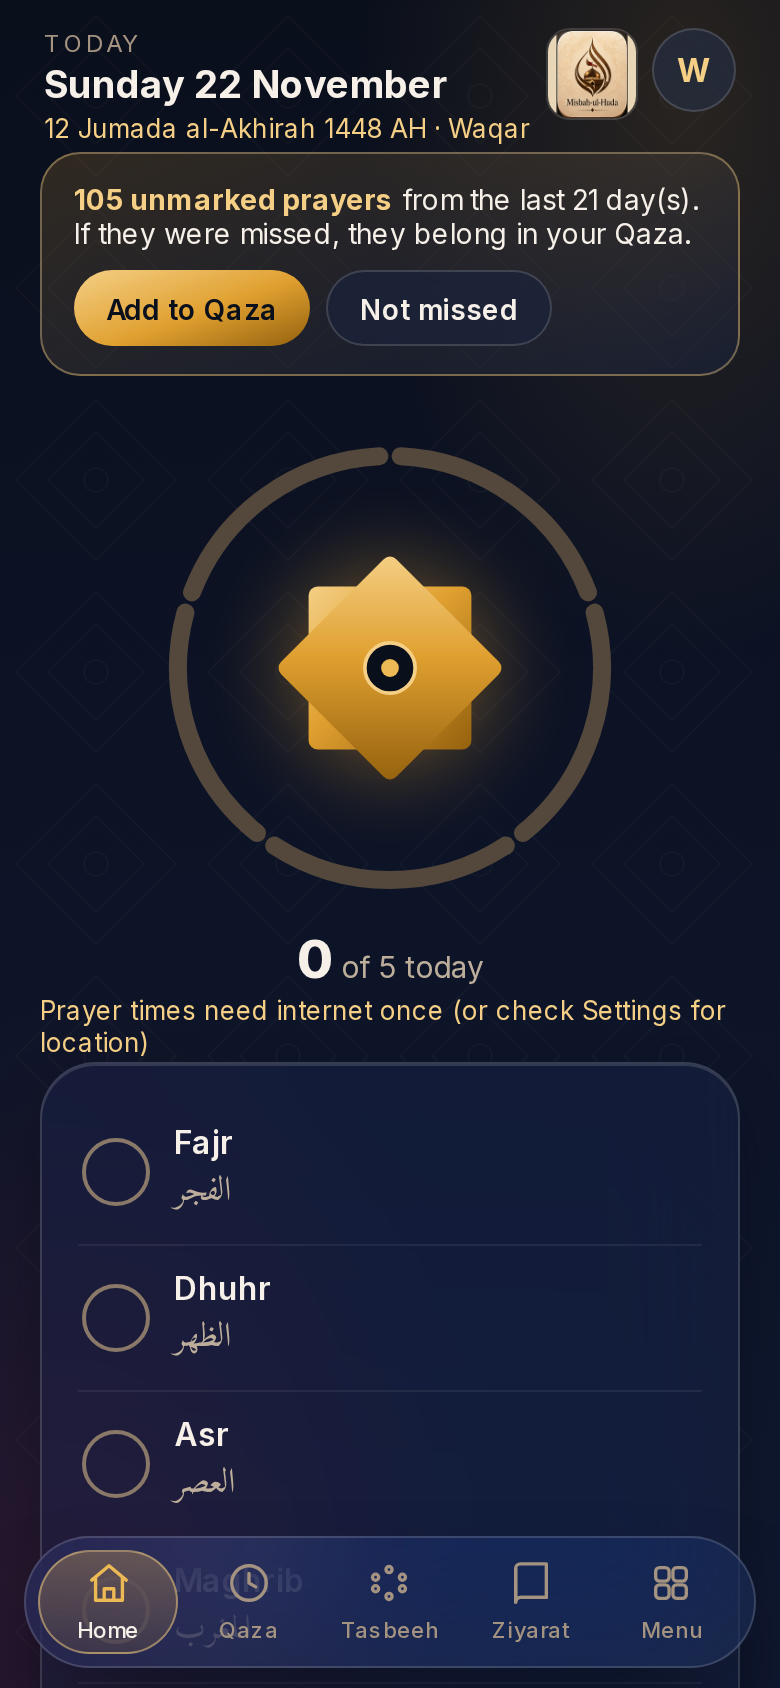
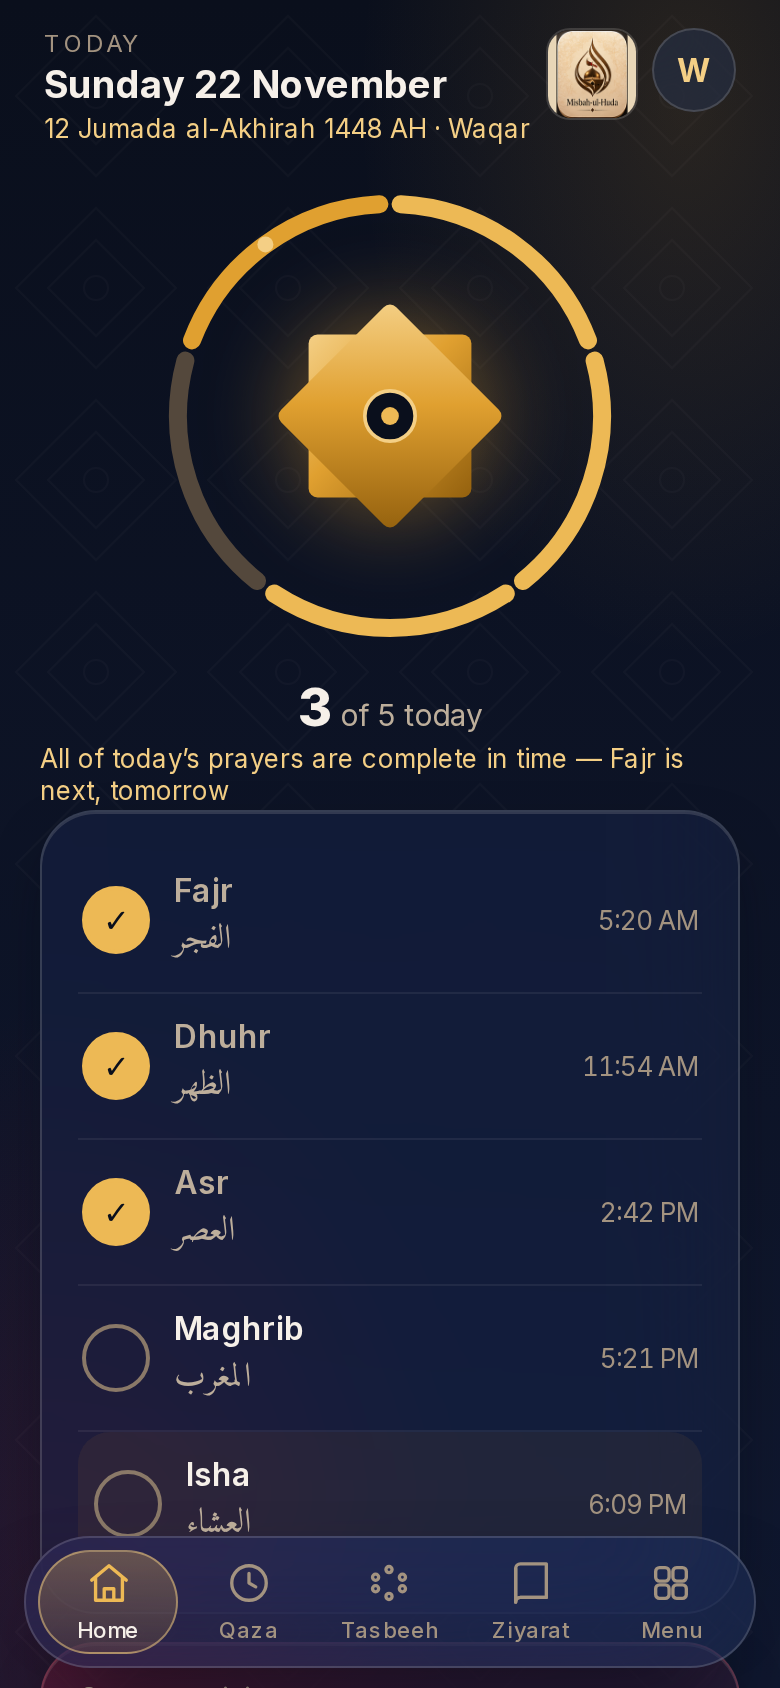
Real app screenshots (with working prayer times) + README gallery

diff --git a/README.md b/README.md
@@ -9,6 +9,15 @@ like a native app and works offline.
 
 ![Misbah-ul-Huda logo](logo.png)
 
+## Screenshots
+<p>
+  <img src="screenshots/home.png" width="180" alt="Home — prayer ring and times">
+  <img src="screenshots/qaza.png" width="180" alt="Qaza tracker">
+  <img src="screenshots/tasbeeh.png" width="180" alt="Tasbeeh counter">
+  <img src="screenshots/library.png" width="180" alt="Ziyarat and Dua library">
+  <img src="screenshots/reader.png" width="180" alt="Ziyarat-e-Ashura reader">
+</p>
+
 ## Features
 - **Daily prayer tracker** — Fajr, Dhuhr, Asr, Maghrib, Isha with a progress ring
 - **Qaza tracker** — a separate counter for every prayer (including Namaz-e-Ayat),
